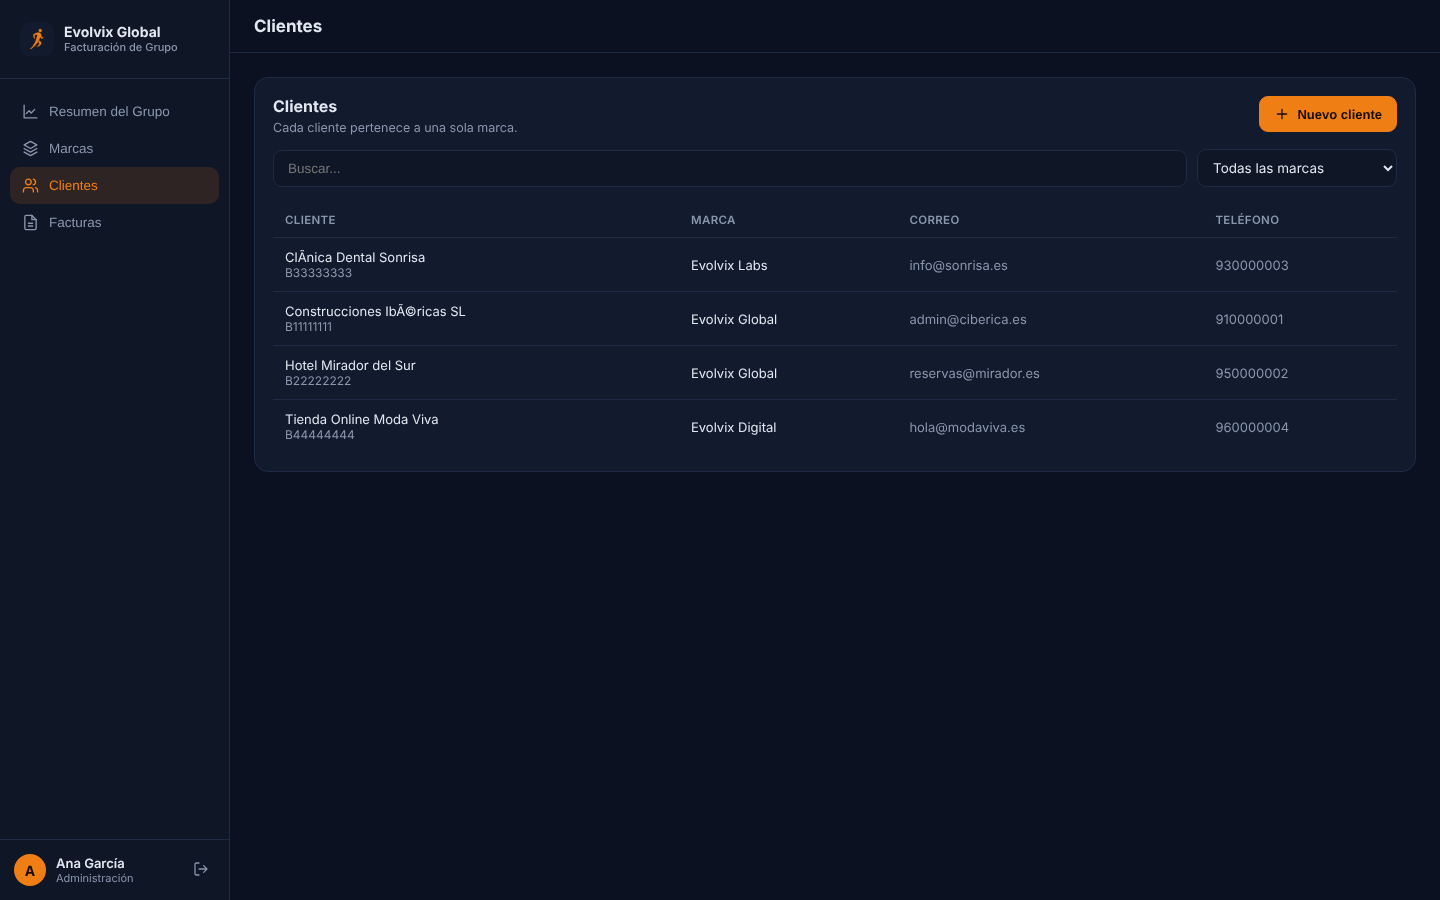
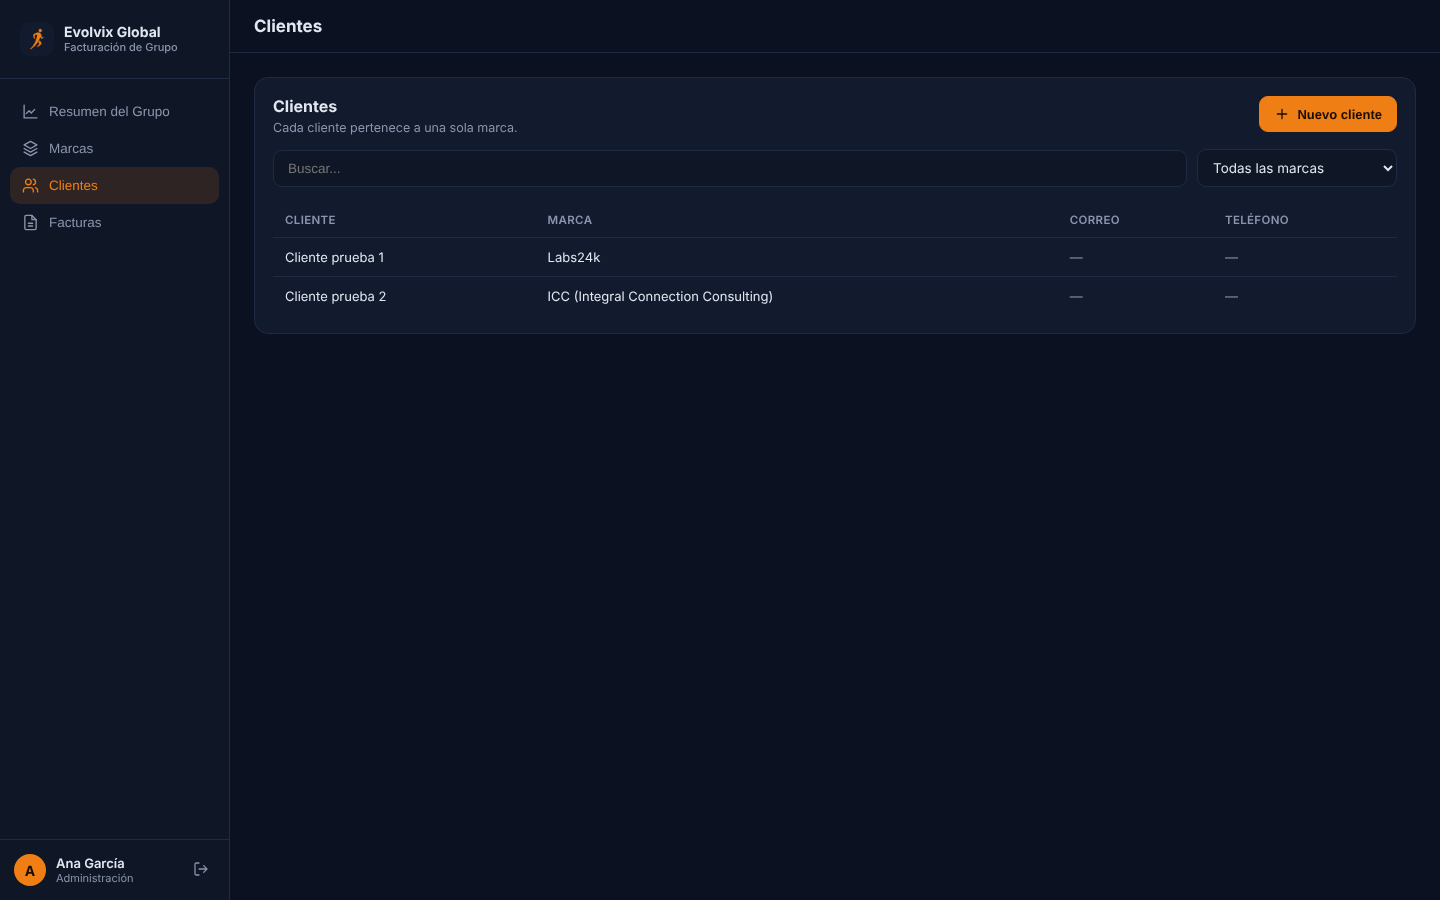
Sembrar las marcas Labs24k (LAB) e ICC (Integral Connection Consulting)
Sustituye la marca de ejemplo «Evolvix Global» del esquema por las dos
marcas que gestiona el grupo y actualiza LEEME y capturas.

Claude-Session: https://claude.ai/code/session_01YJFYSFN1k7MwNmTAuFxM8r

diff --git a/LEEME-HOSTALIA.md b/LEEME-HOSTALIA.md
@@ -23,8 +23,10 @@ Entra en **phpMyAdmin** desde el panel de Hostalia, elige tu base de datos
 nueva, pestaña **SQL**, y pega entero el contenido de `sql/01-esquema.sql`.
 Pulsa **Continuar/Ejecutar**.
 
-Verás al final una fila de comprobación: `marcas >= 1` y `tablas_creadas = 7`.
-Esto crea las tablas y siembra la marca «Evolvix Global», ya lista.
+Verás al final una fila de comprobación: `marcas >= 2` y `tablas_creadas = 7`.
+Esto crea las tablas y siembra las dos marcas del grupo, ya listas:
+**Labs24k** (facturas `LAB-2026-0001`…) e **ICC (Integral Connection
+Consulting)** (facturas `ICC-2026-0001`…).
 
 ## Paso 3 · Subir los archivos
 
@@ -61,7 +63,7 @@ limpio no dejarlo ahí.
 
 Abre `https://tudominio.com/index.html`, entra con el correo y la
 contraseña del paso 4. Deberías ver el **Resumen del Grupo** con la marca
-«Evolvix Global» ya creada, sin facturas todavía.
+Labs24k e ICC ya creadas, sin facturas todavía.
 
 ## Añadir más cuentas (admin o contable) más adelante
 
@@ -99,7 +101,7 @@ PHP de `api/`, no MySQL:
 - Cada factura creada y cada cambio de estado quedan en un histórico
   (`factura_eventos`) que la aplicación solo puede rellenar, nunca editar
   ni borrar.
-- La numeración de cada factura (`EVO-2026-0001`, por marca y año) la
+- La numeración de cada factura (`LAB-2026-0001`, `ICC-2026-0001`, por marca y año) la
   calcula el propio servidor con un truco de MySQL pensado para que dos
   facturas creadas a la vez por personas distintas nunca choquen.
 
@@ -117,7 +119,7 @@ simulaciones):
   puede (bloqueado por `api/marcas.php`, con 403).
 - Una petición que cambia datos sin el token anti-CSRF se rechaza (403).
 - Dos facturas seguidas, de marcas distintas, reciben numeración
-  correlativa independiente (`EVO-2026-0001`, `LAB-2026-0001`).
+  correlativa independiente (`LAB-2026-0001`, `ICC-2026-0001`).
 - Cada factura creada deja su evento en el histórico; cada cambio de estado
   deja uno más.
 - Intentar borrar una factura por la API da **405** (ese método no existe).
